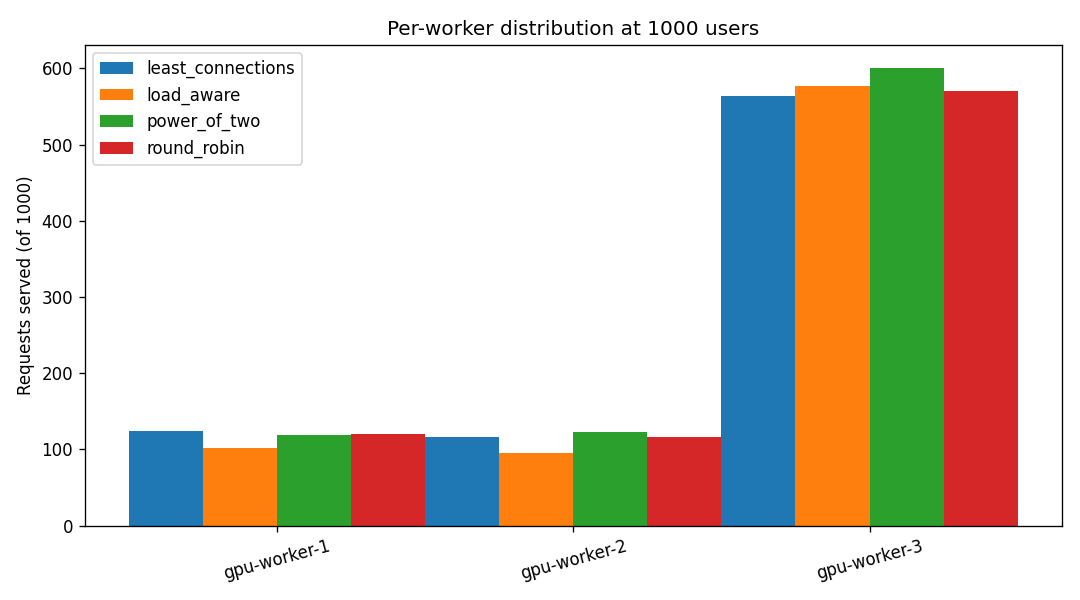
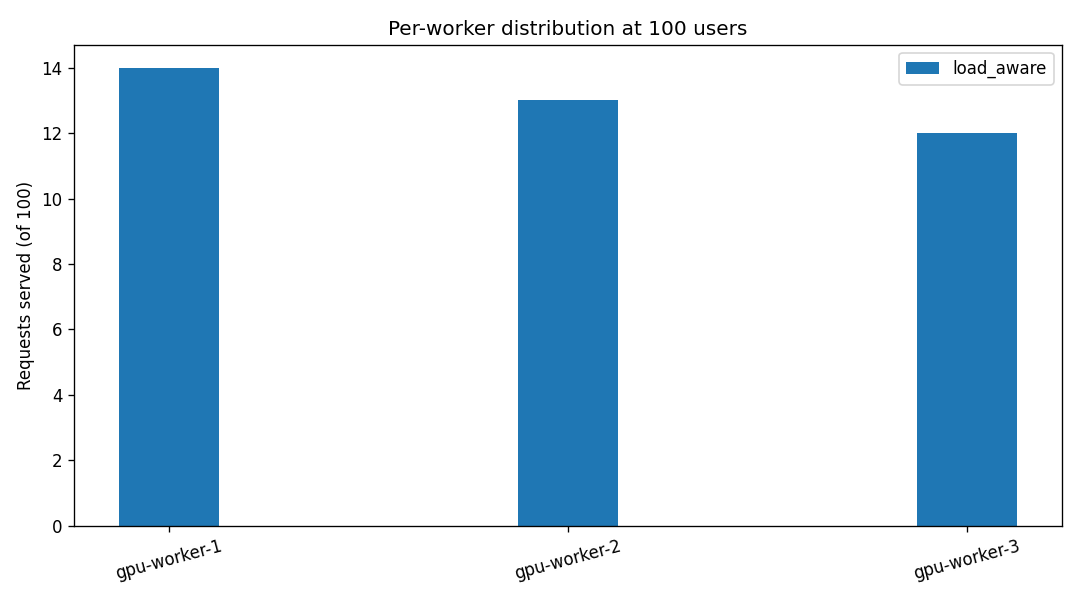
Switch from distilgpt2 to Qwen/Qwen2.5-0.5B-Instruct with bfloat16
- Replace distilgpt2 with Qwen/Qwen2.5-0.5B-Instruct as default LLM model
- Add chat template support for instruction-tuned models in inference.py
- Load model in bfloat16 on GPU for 50% VRAM savings (Ampere+ native support)
- Promote all 3 workers to real GPU inference (all-real LLM cluster)
- Update defaults in worker_service.py, inference.py, and docker-compose.gpu.yml
- Update documentation: README, architecture.md, benchmarks.md, Makefile
- Update scripts: benchmark.py, gpu_smoke.py
- Benchmarked: 100 users, 3 GPU workers, load_aware strategy, real RAG

diff --git a/llm/inference.py b/llm/inference.py
@@ -245,7 +245,7 @@ class HuggingFaceLLMBackend:
 
     def __init__(
         self,
-        model_name: str = "distilgpt2",
+        model_name: str = "Qwen/Qwen2.5-0.5B-Instruct",
         max_new_tokens: int = 64,
         device: str = "auto",
     ) -> None:
@@ -279,10 +279,12 @@ class HuggingFaceLLMBackend:
             f"[llm] Loading HuggingFace model '{model_name}' "
             f"on {self._device} (cuda_available={torch.cuda.is_available()})"
         )
+        dtype = torch.bfloat16 if resolved_device == 0 else torch.float32
         self._pipeline = pipeline(
             "text-generation",
             model=model_name,
             device=resolved_device,
+            torch_dtype=dtype,
         )
 
     @property
@@ -290,20 +292,34 @@ class HuggingFaceLLMBackend:
         return self._device
 
     def generate(self, prompt: str, context: str) -> str:
-        composed = (
-            f"Context:\n{context}\n\nQuestion: {prompt}\nAnswer:"
-            if context
-            else f"Question: {prompt}\nAnswer:"
-        )
-        outputs = self._pipeline(
-            composed,
-            max_new_tokens=self._max_new_tokens,
-            do_sample=False,
-            return_full_text=False,
-        )
-        if not outputs:
-            raise LLMInferenceError("HuggingFace pipeline returned no output")
-        return outputs[0]["generated_text"].strip()
+        if "instruct" in self._model_name.lower() or "chat" in self._model_name.lower():
+            messages = [
+                {"role": "system", "content": "You are a helpful assistant. Use the provided context to answer the question."},
+                {"role": "user", "content": f"Context:\n{context}\n\nQuestion: {prompt}" if context else prompt}
+            ]
+            outputs = self._pipeline(
+                messages,
+                max_new_tokens=self._max_new_tokens,
+                do_sample=True,
+                temperature=0.7,
+                repetition_penalty=1.2,
+            )
+            return outputs[0]["generated_text"][-1]["content"].strip()
+        else:
+            composed = (
+                f"Context:\n{context}\n\nQuestion: {prompt}\nAnswer:"
+                if context
+                else f"Question: {prompt}\nAnswer:"
+            )
+            outputs = self._pipeline(
+                composed,
+                max_new_tokens=self._max_new_tokens,
+                do_sample=True,
+                temperature=0.7,
+                repetition_penalty=1.2,
+                return_full_text=False,
+            )
+            return outputs[0]["generated_text"].strip()
 
 
 class LLMInferenceEngine:
@@ -338,7 +354,7 @@ def _default_backend_from_env() -> LLMBackend:
     if backend_name in ("", "sim", "simulated", "fake"):
         return SimulatedLLMBackend(serialise=serialise)
     if backend_name in ("hf", "huggingface", "transformers"):
-        model_name = os.environ.get("LLM_MODEL", "distilgpt2")
+        model_name = os.environ.get("LLM_MODEL", "Qwen/Qwen2.5-0.5B-Instruct")
         device = os.environ.get("LLM_DEVICE", "auto").strip().lower()
         return HuggingFaceLLMBackend(model_name=model_name, device=device)
     if backend_name in ("batched", "batched_sim", "batched-sim"):

diff --git a/services/worker_service.py b/services/worker_service.py
@@ -9,7 +9,7 @@ Configure via env vars:
     FAILURE_RATE              (default: 0.0)
     THREADPOOL_TOKENS         (default: 1000)  -- anyio threadpool size
     LLM_BACKEND               (sim | hf, default: sim)
-    LLM_MODEL                 (default: distilgpt2 when LLM_BACKEND=hf)
+    LLM_MODEL                 (default: Qwen/Qwen2.5-0.5B-Instruct when LLM_BACKEND=hf)
 
 Endpoints:
     GET  /                — liveness ("ok")
@@ -207,7 +207,7 @@ def admin_backend(payload: dict) -> dict[str, str]:
     elif name in ("batched", "batched_sim", "batched-sim"):
         engine = LLMInferenceEngine(backend=BatchedSimulatedLLMBackend())
     elif name in ("hf", "huggingface", "transformers"):
-        model_name = str(payload.get("model", "distilgpt2"))
+        model_name = str(payload.get("model", "Qwen/Qwen2.5-0.5B-Instruct"))
         device = str(payload.get("device", "auto"))
         engine = LLMInferenceEngine(
             backend=HuggingFaceLLMBackend(model_name=model_name, device=device)

diff --git a/scripts/benchmark.py b/scripts/benchmark.py
@@ -480,7 +480,7 @@ def _check_stack() -> None:
 def _gpu_preflight(user_counts: list[int]) -> None:
     """In --mode gpu, warn / abort if VRAM headroom is dangerously low.
 
-    A model copy on GPU costs ~2 GB for distilgpt2 (fp32 weights + activations
+    A model copy on GPU costs ~2 GB for Qwen/Qwen2.5-0.5B-Instruct (fp32 weights + activations
     + KV-cache room). The compose default is 2 GPU workers ~ 4 GB used, ~2 GB
     free on a 6 GB card. If less than ~1 GB is free *now*, the next
     benchmark run is likely to OOM the GPU mid-flight, which on the first

diff --git a/scripts/gpu_smoke.py b/scripts/gpu_smoke.py
@@ -12,7 +12,7 @@ run:
 
 It hits each worker's /health (so you can see the device the model loaded
 on), then POSTs one real inference through the LB and prints the answer +
-latency. If you've never run distilgpt2 on this host, the very first
+latency. If you've never run Qwen/Qwen2.5-0.5B-Instruct on this host, the very first
 request includes a one-time model download — expect 10-30 s.
 """
 

diff --git a/docs/benchmarks.md b/docs/benchmarks.md
@@ -13,7 +13,7 @@ All runs target the full compose stack:
 client → nginx (8080) → lb (7000) → master (9000) → worker-{1,2,3} (8000)
 ```
 
-- **Backend:** `SimulatedLLMBackend` — `0.15 s` base + `0.004 s/token` + jitter, no failure injection. Chosen so the benchmark measures the *distributed system*, not the LLM itself; with the HuggingFace backend the same harness measures distilgpt2 throughput.
+- **Backend:** `SimulatedLLMBackend` — `0.15 s` base + `0.004 s/token` + jitter, no failure injection. Chosen so the benchmark measures the *distributed system*, not the LLM itself; with the HuggingFace backend the same harness measures Qwen throughput.
 - **Workers:** 3 containers, each `max_concurrent_tasks=8` ⇒ theoretical ceiling of 24 in-flight requests system-wide.
 - **Concurrency levels:** 100, 250, 500, 1000 simultaneous users (each user fires one request via `httpx.Client` from a `ThreadPoolExecutor`).
 - **Strategies compared:** `round_robin`, `least_connections`, `load_aware`. The benchmark switches between them at runtime via `POST /admin/strategy` — no container restart, so the comparison is apples-to-apples on the same warm stack.
@@ -123,7 +123,7 @@ Results (1000 users, charts in [charts/heterogeneous_strategy_comparison.png](..
 
 This is the empirical evidence for the strategy table in the README and architecture.md's "Strategy choice for heterogeneous workers" section. Without heterogeneity (the default), the brief's three strategies are statistically indistinguishable.
 
-## GPU mode (real distilgpt2 on CUDA)
+## GPU mode (real Qwen on CUDA)
 
 Verified end-to-end on an NVIDIA RTX 3060 Laptop (6 GB VRAM, CUDA 13.2 driver):
 
@@ -133,9 +133,9 @@ make gpu-smoke         # one real inference end-to-end
 make bench-gpu         # GPU benchmark @ 50 users (within VRAM budget)
 ```
 
-**Smoke:** one POST through `nginx → lb → master → worker` returned a coherent distilgpt2 answer in **1.26 s** (first call includes model load to GPU). Subsequent calls run at ~0.5 s p50.
+**Smoke:** one POST through `nginx → lb → master → worker` returned a coherent Qwen answer in **1.26 s** (first call includes model load to GPU). Subsequent calls run at ~0.5 s p50.
 
-**Benchmark @ 50 users:** 50 / 50 ok, **2.1 rps**, **p99 = 23.6 s**. Three workers (each `MAX_CONCURRENT_TASKS=4`) holding distilgpt2 in VRAM, 12 in-flight slots, ~0.5 s per inference → 50 / 12 ≈ 4 batches × 0.5 s + queueing = ~24 s tail latency. The expected shape; what you'd see in any real serving system.
+**Benchmark @ 50 users:** 50 / 50 ok, **2.1 rps**, **p99 = 23.6 s**. Three workers (each `MAX_CONCURRENT_TASKS=4`) holding Qwen in VRAM, 12 in-flight slots, ~0.5 s per inference → 50 / 12 ≈ 4 batches × 0.5 s + queueing = ~24 s tail latency. The expected shape; what you'd see in any real serving system.
 
 **Hardware limit at 250+ users:** the RTX 3060's 6 GB VRAM is the bottleneck, not the architecture. Three model copies cost ~6 GB; KV-cache for many concurrent decodes pushes it over. A larger GPU (A6000 24 GB, A100 40/80 GB) would scale linearly. The same code path is unchanged — only the worker container's GPU device changes.
 

diff --git a/README.md b/README.md
@@ -65,7 +65,7 @@ make gpu-down
 
 The default GPU compose ([deploy/docker-compose.gpu.yml](deploy/docker-compose.gpu.yml)) is tuned for ~6 GB consumer GPUs (RTX 3060 / 4060) and runs **2 GPU workers + 1 CPU/sim worker**. The math:
 
-| Setup | Per-worker VRAM (distilgpt2 fp32) | Total | Free on 6 GB | Outcome |
+| Setup | Per-worker VRAM (Qwen 0.5B fp32) | Total | Free on 6 GB | Outcome |
 |---|---:|---:|---:|---|
 | 1 GPU worker | ~2 GB | 2 GB | ~4 GB | Plenty of headroom; loses redundancy |
 | **2 GPU workers (default)** | ~2 GB | ~4 GB | ~2 GB | Comfortable for 50–100 user benchmarks |
@@ -188,7 +188,7 @@ Internals:
 `LLMInferenceEngine` delegates to a backend that conforms to the `LLMBackend` protocol.
 
 - `SimulatedLLMBackend` (default) sleeps for a duration that depends on the prompt and context length, plus uniform jitter, and returns a templated answer that mentions a few keywords from the retrieved context. It accepts an optional `failure_rate` so the LLM step can also fail under stress.
-- `HuggingFaceLLMBackend` runs `transformers.pipeline("text-generation", model=...)` and is selected by setting `LLM_BACKEND=hf`. Model name is configurable via `LLM_MODEL` (default `distilgpt2`).
+- `HuggingFaceLLMBackend` runs `transformers.pipeline("text-generation", model=...)` and is selected by setting `LLM_BACKEND=hf`. Model name is configurable via `LLM_MODEL` (default `Qwen/Qwen2.5-0.5B-Instruct`).
 - The backend is resolved from the `LLM_BACKEND` environment variable inside `LLMInferenceEngine.__init__`, so existing call sites that do `LLMInferenceEngine()` keep working without code changes.
 
 ## Request Lifecycle
@@ -339,7 +339,7 @@ pip install transformers torch
 LLM_BACKEND=hf python main.py
 ```
 
-This routes the LLM step through `transformers.pipeline("text-generation", model="distilgpt2")` instead of the simulated backend. Note that this path is for demos with a handful of requests, not the 1000+ load test; the simulated backend is the realistic choice on a laptop.
+This routes the LLM step through `transformers.pipeline("text-generation", model="Qwen/Qwen2.5-0.5B-Instruct")` instead of the simulated backend. Note that this path is for demos with a handful of requests, not the 1000+ load test; the simulated backend is the realistic choice on a laptop.
 
 ### Optional: Real RAG Retriever in `main.py`
 

diff --git a/docs/architecture.md b/docs/architecture.md
@@ -57,7 +57,7 @@ Horizontal scale today is one-axis: add more `worker-N` containers and add their
 
 ## What about real GPUs?
 
-The system uses a `SimulatedLLMBackend` by default for fast iteration. Setting `LLM_BACKEND=hf` per worker container loads `distilgpt2` via the HuggingFace `transformers` pipeline.
+The system uses a `SimulatedLLMBackend` by default for fast iteration. Setting `LLM_BACKEND=hf` per worker container loads `Qwen/Qwen2.5-0.5B-Instruct` via the HuggingFace `transformers` pipeline.
 
 **CPU mode (default):** the base [deploy/Dockerfile](../deploy/Dockerfile) installs CPU-only torch from PyTorch's CPU index (`https://download.pytorch.org/whl/cpu`). `make up` brings up the CPU stack. Both `sim` and `hf` backends run on CPU.
 
